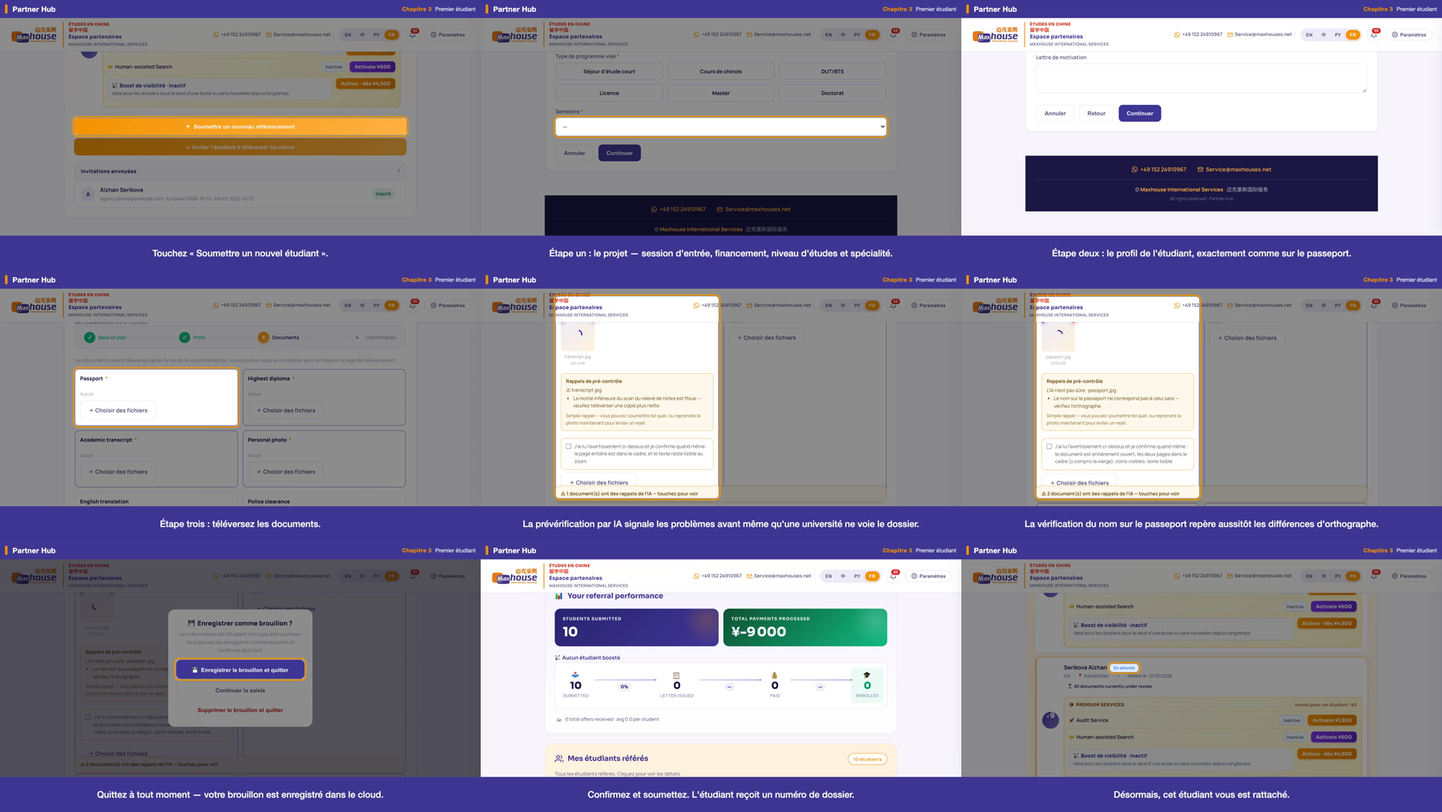
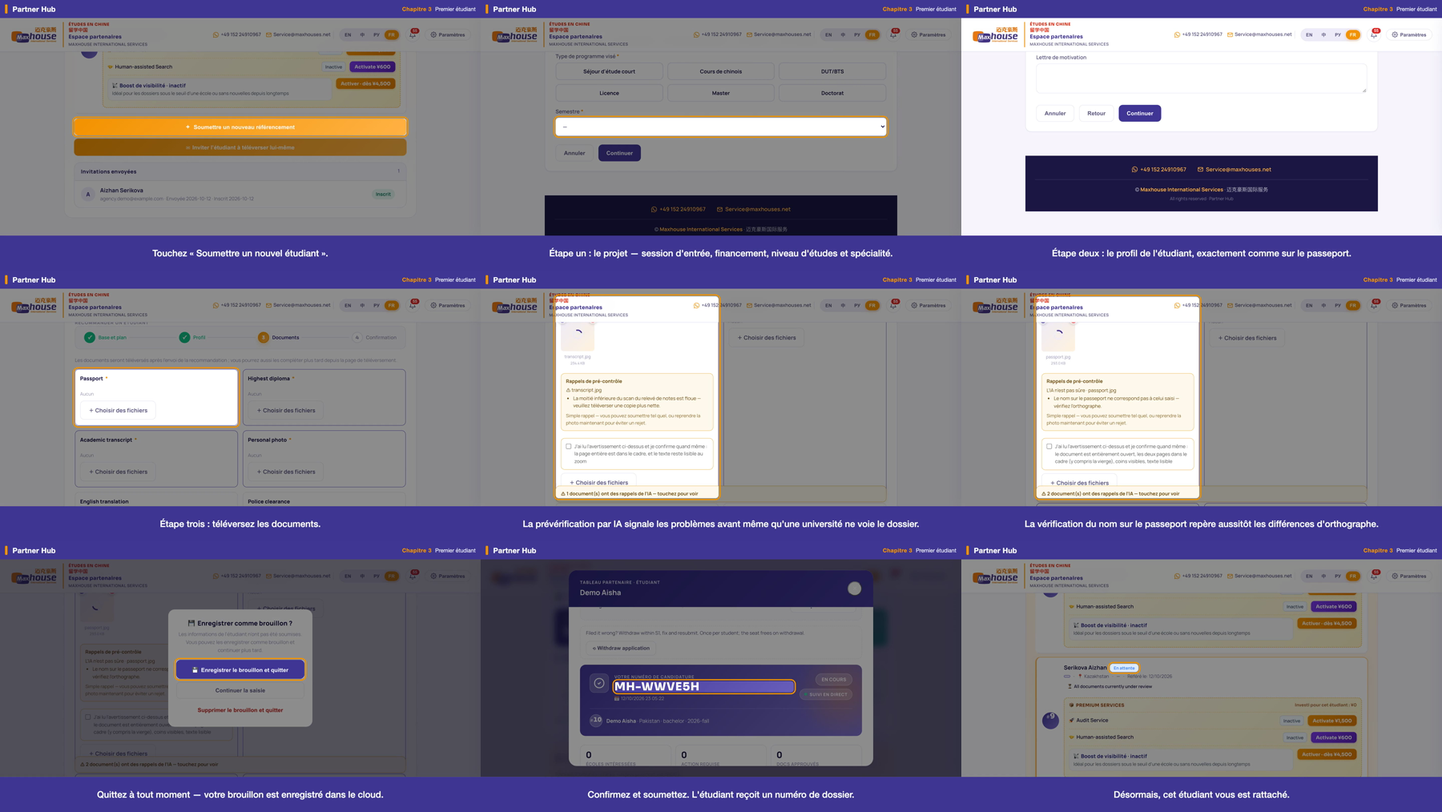
JOB-GP1 trip30: ch3 工作台章定版重录(review1 §三.8+§四+§一)——四语横竖联络表(帧取字幕中点)+4 REVIEW §十一对账+决定账+PROGRESS。rec.mjs preOff 修 3-1/3-8 节奏,3-9 ¥0 无负数,verify 17/17

Changed region(s): [[0.3111, 0.6726, 0.6844, 0.9783], [0.0622, 0.1223, 0.28, 0.1834], [0.9022, 0.8866, 0.9333, 0.9477]]

diff --git a/JOB-GP1-03-PROGRESS.md b/JOB-GP1-03-PROGRESS.md
@@ -1,3 +1,20 @@
+最后一趟：2026-10-12 第30趟 返工：**做了**＝ch3 工作台章（state 章）v185 底座四语横竖定版重录，一并落 review1 §三.8（3-1/3-8 节奏）+§四（草稿残留复核）+§一（工作台 v185）。**§三.8 节奏＝录制层实现「后期剪掉等待的那几秒」**：rec.mjs 加 `preOff` 开关（把导航/加载/真提交放镜外 offCamera 跑、不计入字幕窗口帧，等结果落定才开录）。3-1 旧病＝点完按钮后镜尾 openWizard 切走、高亮环落向导空白处→删 3-1 openWizard、移到 3-2 offCamera pre（3-1 全窗口框按钮·亲验尾帧仍框按钮；3-2 开录即向导 step1 高亮 Semester）。3-8 旧病「app_no 落段尾」（trip12 记）→真 submit+等 app_no 全放 offCamera，开录 app_no 已在画面（亲验首帧 t0 即显 MH-xxxxxx）。**§四**＝每变体前后跑 st-ch3-cleanup 还原 pt-01 基线草稿（Ayesha Malik/step2）+真 submit 后即 st-ch3-mark-test 标 is_test；8 变体=8 次真 submit（cleanup-before-each 保配额恒 9→10 成功），verify #17 开工+收工 PASS。**§一**＝3-9 卡「Invested ¥0」无负数（缺陷1 销账）。8 片全 res OK+audio yes+no @gmail+9镜×8 hl 全 resolve。时长 land/port：EN60.23/60.25·ZH70.52/70.46·RU70.69/70.55·FR69.59/69.51s。亲验 en-land(3-1尾/3-2/3-8/3-9)+ru-land(3-5/3-8/3-9)原始帧：§三.8 三镜达标、¥0 无负数、AI 预检琥珀条四语本地化(产品渲染)、演示生 Demo Aisha 无真 PII、护照 DE1234567 样号、邮箱掩码、无 beta、页头平台 WhatsApp/Email 不遮。ch3 开工+收工 verify **17/17 PASS 0 FAIL**，baseline 守住（scoped 复位，无全量 rebuild）。v1 成片在 _v1/ 留底、dist 覆盖 v2。**全片 bookend/film/trailer 本趟不重拼**（待全部工作台章完后统一拼）。主仓库点名提交 JOB-GP1 不推；四语 ch3 联络表(land+port)+4 REVIEW+决定账+PROGRESS 推 mh-jobs。**下趟**＝下一含工作台章定版重录（ch7 7-4/ch8 横幅/ch5 5-1·5-4 两态/ch10/OP-3·4·5 快剪），一趟一章；全部完后四语过十一项重审+重拼全片→写 SUMMARY-GP1。**GP-1 未收官，勿据旧『收官』停工。**
+
+---
+# 第30趟详记：
+## 第 30 趟（2026-10-12 Mac mini 无人值守）· ch3 工作台章定版重录 v185（review1 §三.8 + §四 + §一）
+- **接手核对**：git status + 读齐 PROGRESS/loop-tail/RULING-b-review1/-c-rework/-d/-e/DECISIONS/storyboard/QUEUE/CHOREOGRAPHY。trip29 ch1 已定版，下趟＝下一含工作台章（ch3）。开工即改首行「返工进行中」，开工 verify **17/17 PASS**。
+- **选题**：按 trip29「下趟」与 review1 §八 挑 ch3（state 章，含 §三.8 节奏 3-1/3-8 + §四 草稿残留 + §一 工作台 v185 背景）。review1 未标 ch3 任何字幕缺陷→字幕/配音一字不改，纯节奏/底座/残留返工。
+- **§三.8 做法（rec.mjs +preOff，见 D-30-1）**：先录 en-land 测量——timeline 实证 3-1 旧 openWizard 致尾帧高亮环落向导空白（亲验），3-8 preOff 后 app_no 窗口 t0 即在画面。据实改 3-1（去 openWizard）/3-2（移入 offCamera pre）/3-8（preOff）后重录 en-land 复验达标，再批量录其余 7 变体。
+- **录制闭环**：每变体 st-ch3-cleanup（清+还原草稿）→ 真 submit 录 → st-ch3-mark-test（标 is_test）；全 8 变体后最终 cleanup。cleanup-before-each 保每次配额 9→10 submit 成功出新 app_no。
+- **自验**：8 片 res/audio/no-@gmail/hl 全过；亲验 en-land+ru-land 关键原始帧（§三.8 达标/¥0 无负数/AI 琥珀四语/demo 无真 PII/无 beta/页头不遮）；§十一对账四语写入 REVIEW-*-shots.md。
+- **DB**：ch3 state 章，开工+收工 verify **17/17 PASS 0 FAIL**（含往返+§四#17），零残留。
+- **踩坑**：node 从仓库根跑 require 相对路径失败（cwd 复位）——改 cd rec 目录或绝对路径。批量录用带引号位置参数 `run(){...--lang "$1" --orient "$2"}`（避 LEDGER-3 $combo 分词）。
+- **改了**（主仓库，点名 JOB-GP1，不推）：rec/rec.mjs、rec/shots-v1.json、REVIEW-{en,zh,ru,fr}-shots.md、DECISIONS.md。成片/voice 不入 git；v1 在 _v1/、dist 覆盖 v2；全片不重拼。四语 ch3 联络表+4 REVIEW+决定账+PROGRESS 推 mh-jobs。
+- **下趟**：ch7/ch8/ch5/ch10/OP-3·4·5，一趟一章；全部完后十一项重审+重拼全片→写 SUMMARY-GP1。GP-1 未收官。
+
+---
+# 上一趟（第29趟）首行存档：
 最后一趟：2026-10-12 23:20 第29趟 返工：**做了**＝接 trip28（ch2 定版 v185 已出），本趟做 ch1 工作台章定版重录（review1 §一）。ch1 读-only（1~7 镜注册/入驻 UI 产品自身渲染、1-8 已登录 hub），review1 未标 ch1 任何字幕缺陷→字幕一字不改，纯 v185 底座整章四语横竖定版重录。病灶＝1-8 背景 hero，v184 缓存帧显 `TOTAL PAYMENTS PROCESSED ¥-9,000`（负数，缺陷1；亲看 v184 ch1-contact-land-en 实证）。v185 底座（含 trip28 offCamera 等待）重录后 1-8 自动显 **¥0**。四语 land 1-8 原始帧逐张亲验：四语全 ¥0（负数销账）、STUDENTS SUBMITTED 9、APPROVED/одобрено/approuvé/已通过 徽章橙框、无负数、无 beta、注册号画面 no @gmail+邀请码打码+SPECIMEN+无真 PII、页头平台 WhatsApp/Email 不遮。8 片全 res OK+audio yes+no @gmail+8 镜 hl 全 resolve。§十一对账四语写入 REVIEW-*-shots.md。时长 EN49.43·ZH49.45·RU51.22·FR49.62s(land)。ch1 全程只读，开工+收工 verify 17/17 PASS 0 FAIL。踩坑：批量录 `$combo` 未分词污染 TAG（LEDGER-3 复犯），TaskStop 杀后台改带引号位置参数函数重录。v1 成片在 _v1/ 留底，覆盖 dist 为 v2。**全片 bookend/film/trailer 本趟不重拼**（待全部工作台章完后统一拼）。主仓库点名提交 JOB-GP1 不推；四语 ch1 联络表(land+port)+4 REVIEW+决定账+PROGRESS 推 mh-jobs。**下趟**＝下一含工作台章定版重录（ch3 3-1·3-8 节奏+§四草稿残留/ch7 7-4/ch8 横幅/ch5 5-1·5-4 两态/ch10/OP-3·4·5 快剪），一趟一章；全部完后四语过十一项重审+重拼全片→写 SUMMARY-GP1。**GP-1 未收官，勿据旧『收官』停工。**
 
 ---

diff --git a/JOB-GP1-REVIEW-en-shots.md b/JOB-GP1-REVIEW-en-shots.md
@@ -85,3 +85,27 @@
 - 时长：land 49.43s / port 49.44s（8 镜）。8 片（四语横竖）全 res OK + audio yes。全片 DOM 扫描 **no @gmail**。
 - 逐张亲眼复验（EN land 联络表 + 1-8 原始帧 46s）：1-8 hero `TOTAL PAYMENTS PROCESSED ¥0`（负数已消失，review1 §一 销账）、`STUDENTS SUBMITTED 9`、APPROVED 徽章橙框；无负数、无 beta/内测/test 控件；注册演示号画面 no @gmail、邀请码打码、SPECIMEN 样件、无真护照号/电话；页头平台 WhatsApp/Email 不遮（D-14-3/D-15-1）。
 - 记账：1-8 同帧有「Quota raise pending: 10 → 30」横幅＝基线真实待审提额请求（verify #13），在 ch1 叙事中属真实背景态、不矛盾（该横幅与 ch8 叙事的矛盾由 §三.7 ch8 返工时 scoped 撤除后再录处理，与 ch1 无关）。
+
+## ch3 §三.8（节奏 3-1/3-8）+ §四（草稿残留）+ §一（工作台 v185，返工第30趟 2026-10-12 · 定版重录）
+前置：ch3 是 state 章（3-8 真 submit→真 app_no，耗配额 9→10、建 guide-pt-ch3 生）。本趟在 v185 底座对 ch3 整章四语横竖定版重录，处理 review1 三处：
+- **§三.8 节奏（录制层实现 review1「后期剪掉等待的那几秒」）**：给 rec.mjs 加 `preOff` 开关——把「导航/加载/真提交」放镜外（offCamera）跑，不计入字幕窗口帧，等结果落定后才开录，保证字幕说的东西在窗口里占 ~100%。
+  - **3-1（旧病：点完按钮后镜尾 openWizard 切走，高亮环落在向导空白处）**：去掉 3-1 的 `special:openWizard`，把「开向导」移到 3-2 的 offCamera `pre`。→ 3-1 全窗口停在高亮的「Submit New Student Referral」按钮（亲验 3-1 尾帧 t≈5s 仍框按钮，无空白环）；3-2 开录即向导 step1、高亮 Semester（亲验 3-2 首帧已是向导、中帧框 Semester 选择框）。
+  - **3-8（旧病「app_no 落在段尾」，trip12 已记）**：3-8 的真 submit + 等 app_no 全放 offCamera，开录时 app_no 已渲染。亲验 3-8 首帧（窗口 t0）即显 `MH-xxxxxx`（en-land 本趟 MH-EQ3SS3 / ru-land MH-G35SC4，每次真 submit 新码，录后 scoped 删）、中帧高亮环框住 app_no。app_no 全窗口在画面。
+- **§四（草稿残留）**：本趟每录一变体前后各跑 `st-ch3-cleanup.sql`（删 guide-pt-ch3 + 把 pt-01 草稿还原成基线 Ayesha Malik/step2/_demo=pt-01）；真 submit 后立即 `st-ch3-mark-test.sql` 标 is_test（安全网）。收工 verify **#17 PASS**（pt-01 draft==基线，无 ch3 向导覆盖残留）。
+- **§一（工作台 v185）**：3-9 列表背景＝v185 真值，推荐生卡「Invested on this student: ¥0」（无负数，缺陷1 销账）。
+
+| 镜 | 字幕原文（未改） | 高亮区 DOM 实际文字（从 v185 真帧 DOM 读） | 同一件事？ |
+|----|----------|---------------------|-----------|
+| 3-1 | Tap "Submit New Student Referral". | `.partner-add-student-btn`「+ Submit New Student Referral」（工作台底，全窗口高亮） | 是（§三.8 修后全程框按钮） |
+| 3-2 | Step one: the plan — intake term, funding, degree level and major. | 向导 step1：Intended program type 六卡（Short-term/Chinese Language/Associate/Bachelor's/Master's/Doctorate）+ 高亮 `#wzSemStart`「Semester *」选择框 | 是 |
+| 3-3 | Step two: the student's profile, exactly as in the passport. | 向导 step2 档案：高亮「Date of birth」行（同屏 Passport no. 等；演示 Demo Aisha / 护照 DE1234567 样号） | 是 |
+| 3-4 | Step three: upload the documents. | 向导 step3 `.mat-grid`：高亮 `#wz_card_passport` 上传槽（23 槽矩阵） | 是 |
+| 3-5 | The AI pre-check flags problems before a university ever sees the file. | `#wz_card_transcript` 内产品自身琥珀条「Pre-check reminders · transcript.jpg · The transcript scan is blurry in the lower half — please upload a clearer copy.」+ sticky「⚠ Documents with AI notes: 1」（RULING §1.2 产品渲染，四语本地化） | 是 |
+| 3-6 | The passport name check catches spelling differences right away. | `#wz_card_passport` 内护照姓名核对琥珀条（名字不一致提醒「does not match」） | 是 |
+| 3-7 | Leave any time — your draft is saved in the cloud. | `#pwzExitModal` 退出三选一弹窗，高亮「💾 Save draft & exit」 | 是 |
+| 3-8 | Confirm and submit. The student gets an application number. | `.student-app-id-num`「YOUR APPLICATION ID · MH-EQ3SS3」（Demo Aisha · #10 · Pakistan · bachelor · 2026-fall · DOCUMENTS UNDER REVIEW；§三.8 修后全窗口在画面） | 是 |
+| 3-9 | From now on this student is bound to you. | `.partner-student-status-pending`「Submitted · awaiting platform review」（推荐生卡，渲染全/有脸的基线生卡；同卡「Invested on this student: ¥0」无负数） | 是 |
+
+- 时长：land 60.23s / port 60.25s（9 镜）。8 片（四语横竖）全 res OK + audio yes。全片 DOM 扫描 **no @gmail**；8 录屏 9 镜 hl 全 resolve、零 MISS。
+- 逐张亲眼复验（EN land 联络表 + 3-1尾/3-2首中/3-8首中/3-9中 原始帧）：3-1 全程框按钮无空白环、3-2 开录即向导、3-8 app_no 全窗口在画面（§三.8 达标）；3-9「Invested ¥0」无负数（§一.3/缺陷1 销账）；注册演示生 Demo Aisha 无真 PII、护照 DE1234567 样号、邮箱掩码 agency.demo@example.com；无 beta/内测/test 控件；页头平台 WhatsApp/Email 不遮（D-14-3/D-15-1）。
+- 记账：真 submit（submit_referral）仅 insert students、不发邮件/站内通知（trip20 实证）；每变体真码不同（录后 scoped 删）；收工 verify 17/17 PASS、draft 回基线。

diff --git a/JOB-GP1-decisions.md b/JOB-GP1-decisions.md
@@ -547,3 +547,17 @@
 - **改了**（主仓库，点名提交 JOB-GP1，**不推**）：rec/out/*（gitignore，不入库）、REVIEW-{en,zh,ru,fr}-shots.md、DECISIONS.md。成片/voice 不入 git；四语 ch1 联络表（land+port）+ 四 REVIEW + 决定账 + PROGRESS 推 mh-jobs。
 - **非四种停下情形**：ch1 全在只读 + 成片工装范围，记账继续。
 - **下趟**：接做下一含工作台章定版重录——ch3（3-1/3-8 含 §三.8 节奏，需真 submit 置态 + st-ch3-cleanup 复位 + §四草稿残留处理）或 ch7（7-4 §三.5，需 pt-07/08/09 置态）或 ch8（§三.7 横幅，需 scoped 撤提额请求）或 ch5 5-1/5-4 两态定版 或 ch10（读-only）或 OP-3/4/5 开场快剪（素材 3-8/7-0/7-1 现已不阻塞）。一趟一章；全部完后四语过十一项重审 + 重拼全片 → 写 SUMMARY-GP1。GP-1 未收官。
+
+## D-30-1（返工第30趟 2026-10-12）· ch3 工作台章定版重录（review1 §三.8 节奏 + §四 草稿 + §一 v185）
+- **范围**：ch3（state 章，3-8 真 submit→真 app_no）在 v185 底座四语横竖定版重录，一并落 review1 §三.8（3-1/3-8 节奏）、§四（草稿残留复核）、§一（工作台 v185）。字幕/配音一字未改（review1 未标 ch3 任何字幕缺陷）。
+- **§三.8 节奏 = 录制层实现「后期剪掉等待的那几秒」**（rec.mjs，jobs 工装非产品码，承 trip28 offCamera 先例）：
+  - 新增 `preOff` 开关：`follow()` 里把 `runPre + waitFor`（即导航/加载/真提交 + 等结果出现）放 `offCamera` 里跑，不计入字幕窗口帧；等结果落定后才开录。非 preOff 镜行为一字不变。
+  - **3-1 旧病**：`special:openWizard` 在 dwell 后切向导→镜尾高亮环落在向导空白处（亲验 v1 风格尾帧：环框在 Continue 钮下方空白）。**改**：删 3-1 的 openWizard，把开向导移到 3-2 的 `pre`（`openAddStudentModal`）+ `preOff:true` + `waitFor:#wzSemStart`；3-1 `expect` 收为 `.partner-add-student-btn`。→ 3-1 全窗口框按钮（亲验尾帧 t≈5s 仍框按钮）、3-2 开录即向导 step1 高亮 Semester。
+  - **3-8 旧病「app_no 落在段尾」（trip12 记）**：3-8 加 `preOff:true`，真 submit + 等 `.student-app-id-num` 全放 offCamera，开录时 app_no 已渲染（亲验首帧 t0 即显 app_no）。
+- **§四 草稿残留**：每变体前后各跑 `st-ch3-cleanup.sql`（删 guide-pt-ch3 + 还原 pt-01 基线草稿 Ayesha Malik/step2/_demo=pt-01）；真 submit 后立即 `st-ch3-mark-test.sql` 标 is_test（安全网）。8 变体＝8 次真 submit（每次新 app_no，cleanup-before-each 保证配额恒 9→10 submit 成功），收工 1 次最终 cleanup。verify #17（pt-01 draft==基线）开工+收工 PASS。
+- **§一 工作台**：3-9 列表背景＝v185 真值，推荐生卡「Invested on this student: ¥0」无负数（缺陷1 销账）。
+- **自验**：8 片全 res OK + audio yes，no @gmail，9 镜×8 hl 全 resolve 零 MISS。时长 land/port：EN 60.23/60.25、ZH 70.52/70.46、RU 70.69/70.55、FR 69.59/69.51s。亲验 en-land（3-1尾/3-2首中/3-8首中/3-9中）+ ru-land（3-5/3-8/3-9）原始帧：§三.8 三镜达标、¥0 无负数、AI 预检琥珀条四语本地化（产品渲染 RULING §1.2）、演示生 Demo Aisha 无真 PII、护照 DE1234567 样号、邮箱掩码、无 beta、页头平台 WhatsApp/Email 不遮（D-14-3/D-15-1）。
+- **DB**：开工+收工 verify **17/17 PASS 0 FAIL**，baseline 全程守住（scoped 复位，无全量 rebuild，faces 缺口 D-12-2）。
+- **改了**（主仓库，点名 JOB-GP1，不推）：rec/rec.mjs（+preOff）、rec/shots-v1.json（3-1 去 openWizard/收 expect、3-2 +preOff/pre/waitFor、3-8 +preOff）、REVIEW-{en,zh,ru,fr}-shots.md、DECISIONS.md。成片/voice 不入 git；ch3 v1 早在 _v1/ 留底，dist 覆盖 v2。四语 ch3 联络表+4 REVIEW+决定账+PROGRESS 推 mh-jobs。
+- **全片不重拼**：bookend/film/trailer 待全部工作台章定版重录完后统一拼。
+- **下趟**：下一含工作台章定版重录——ch7（7-4 §三.5：字幕「Enrolled. Done.」vs 卡徽章，需第一节修后产品能否真显已入学，否则字幕最小改）/ ch8（§三.7 横幅：8-1 已显「Quota raise pending 10→30」与 8-2/8-3 叙事矛盾，录前 scoped 撤待审提额、录后复位 verify#13）/ ch5（5-1 工作台 + 5-4 两态，需 st-pt03-reupload 两态分录）/ ch10 / OP-3·4·5 开场快剪（3-8/7-0/7-1 素材现已不阻塞）。一趟一章；全部完后四语十一项重审+重拼全片→写 SUMMARY-GP1。**GP-1 未收官。**

diff --git a/JOB-GP1-REVIEW-ru-shots.md b/JOB-GP1-REVIEW-ru-shots.md
@@ -54,3 +54,20 @@ D-18-4：RU 界面里产品动态串回退成英文（PREMIUM SERVICES / Audit S
 | 1-8 | После одобрения ваш партнёрский кабинет открыт. | `.hero`（Demo Agency · Партнёр · одобрено，橙框）；同帧 hero「STUDENTS SUBMITTED 9」「TOTAL PAYMENTS PROCESSED ¥0」（**非 v184 的 ¥-9,000**） | 是 |
 
 - 时长：land 51.22s / port 51.25s（8 镜）。全片 no @gmail。亲眼复验（RU land 1-8 原始帧）：1-8 hero ¥0（负数销账）、STUDENTS SUBMITTED 9、одобрено 徽章橙框；无负数、无 beta 控件；俄文 UI（部分界面串英文回退 D-18-4：STUDENTS SUBMITTED / Quota raise pending 等）；页头平台 WhatsApp/Email 不遮（D-14-3/D-15-1）。
+
+## ch3 §三.8（节奏 3-1/3-8）+ §四（草稿残留）+ §一（工作台 v185，返工第30趟 2026-10-12 · 定版重录）
+前置同 EN 段。RU 字幕来自 captions-v1.json（trip18 已随 RU 录制核验）。D-18-4：工作台/向导部分动态串（如 Audit Service / Human-assisted Search / All documents currently under review / Withdraw application / PREMIUM SERVICES）在 RU 回退英文＝真实产品（LL 动态串无 ru 词典），照录、记入 SUMMARY 产品问题。§三.8/§四/§一 处理同 EN。
+
+| 镜 | RU 字幕 | 高亮区 DOM 实际（v185 真帧，俄/英混排=真产品 D-18-4） | 同一件事？ |
+|----|----------|---------------------|-----------|
+| 3-1 | Нажмите «Отправить нового студента». | `.partner-add-student-btn`（提交按钮，全窗口高亮） | 是 |
+| 3-2 | Шаг первый: план — семестр, финансирование, уровень, специальность. | 向导 step1 + 高亮 `#wzSemStart`「Semester」 | 是 |
+| 3-3 | Шаг второй: профиль студента, точно как в паспорте. | step2 高亮 DOB 行（Demo Aisha / DE1234567） | 是 |
+| 3-4 | Шаг третий: загрузите документы. | step3 `.mat-grid` 护照槽 | 是 |
+| 3-5 | ИИ-предпроверка выявляет проблемы ещё до того, как вуз увидит документ. | 琥珀「Напоминания предварительной проверки · Нижняя половина скана аттестата размыта…」+ sticky「⚠ Документов с замечаниями AI: 1」（产品渲染，RU 本地化·亲验） | 是 |
+| 3-6 | Проверка имени по паспорту сразу замечает расхождения. | 护照卡姓名核对琥珀条 | 是 |
+| 3-7 | Выходите в любой момент — черновик сохраняется в облаке. | 退出弹窗「Save draft & exit」(EN 回退 D-18-4) | 是 |
+| 3-8 | Подтвердите и отправьте. Студент получает номер заявки. | `.student-app-id-num`「ВАШ НОМЕР ЗАЯВКИ · MH-G35SC4」（Demo Aisha·#10·ПРОВЕРКА；§三.8 修后全窗口在画面·亲验） | 是 |
+| 3-9 | С этого момента студент закреплён за вами. | `.partner-student-status-pending`「Ожидает」（基线生卡；同卡「Вложено в студента: ¥0」无负数·亲验） | 是 |
+
+- 时长：land 70.69s / port 70.55s（9 镜）。横竖 2 片 res OK + audio yes，no @gmail，9 镜 hl 全 resolve。亲验（ru-land 3-5/3-8/3-9 原始帧）：3-8 app_no 全窗口、3-9 ¥0 无负数、3-5 琥珀 RU 条、演示生无真 PII、无 beta、页头不遮。

diff --git a/JOB-GP1-REVIEW-zh-shots.md b/JOB-GP1-REVIEW-zh-shots.md
@@ -63,3 +63,20 @@
 | 1-8 | 审核通过，工作台就开通了。 | `.hero`（Demo Agency · 已通过 徽章橙框）；同帧 hero 统计「学生已提交 9」「TOTAL PAYMENTS PROCESSED ¥0」（**非 v184 的 ¥-9,000**） | 是 |
 
 - 时长：land 49.45s / port 49.48s（8 镜）。中文字幕无乱码方块。全片 no @gmail。亲眼复验（ZH land 联络表 + 1-8 原始帧）：1-8 hero ¥0（负数销账）、学生已提交 9、已通过徽章橙框；无负数、无 beta 控件；注册号画面 no @gmail、邀请码打码、SPECIMEN 样件；页头平台 WhatsApp/Email 不遮（D-14-3/D-15-1）。1-8 同帧「10→30 提额待审」横幅＝基线真实背景态（verify #13），与 ch1 叙事不矛盾（ch8 叙事矛盾由 §三.7 另处理）。
+
+## ch3 §三.8（节奏 3-1/3-8）+ §四（草稿残留）+ §一（工作台 v185，返工第30趟 2026-10-12 · 定版重录）
+前置同 EN 段：ch3 state 章 v185 底座四语横竖定版重录。§三.8 节奏＝rec.mjs 加 `preOff`（导航/加载/真提交放镜外跑，字幕窗口里字幕说的东西占 ~100%）：3-1 去 openWizard、移到 3-2 offCamera pre → 3-1 全窗口框按钮、3-2 开录即向导；3-8 真 submit+等 app_no 放 offCamera → 开录 app_no 已在画面。§四＝每变体前后跑 st-ch3-cleanup 还原 pt-01 基线草稿 + 真 submit 后即 mark-test，收工 verify #17 PASS。§一＝3-9 卡「Invested on this student: ¥0」无负数。中文 UI 字幕四语各自对照。
+
+| 镜 | 中文字幕（未改） | 高亮区 DOM 实际文字（v185 真帧） | 同一件事？ |
+|----|----------|---------------------|-----------|
+| 3-1 | 点「提交新学生推荐」。 | `.partner-add-student-btn`「提交新学生推荐」（全窗口高亮） | 是 |
+| 3-2 | 第一步，申请计划：开学季、资助方式、学历层次和专业。 | 向导 step1 层次六卡 + 高亮「学期/Semester」选择框 `#wzSemStart` | 是 |
+| 3-3 | 第二步，学生档案，按护照填写。 | 向导 step2：高亮「出生日期」行（演示 Demo Aisha，护照 DE1234567 样号） | 是 |
+| 3-4 | 第三步，上传材料。 | 向导 step3 `.mat-grid` 高亮护照上传槽 | 是 |
+| 3-5 | AI 预检在学校看到之前就把问题指出来。 | 琥珀「预检提醒」条：成绩单下半部分模糊——请上传更清晰版本 + sticky「⚠ AI 标注 1 份」（产品渲染） | 是 |
+| 3-6 | 护照姓名核对当场发现拼写不一致。 | 护照卡姓名核对琥珀条（不一致提醒） | 是 |
+| 3-7 | 随时退出，草稿存在云端。 | 退出弹窗高亮「存草稿并退出」 | 是 |
+| 3-8 | 确认提交，学生拿到申请编号。 | `.student-app-id-num`「你的申请编号 · MH-xxxxxx」（Demo Aisha·#10；§三.8 修后全窗口在画面） | 是 |
+| 3-9 | 从现在起，这名学生与你绑定。 | `.partner-student-status-pending`「已提交·等待平台审核」（基线生卡；同卡「Invested ¥0」无负数） | 是 |
+
+- 时长：land 70.52s / port 70.46s（9 镜）。横竖 2 片 res OK + audio yes，no @gmail，9 镜 hl 全 resolve。亲验同 EN：3-1 全程框按钮、3-8 app_no 全窗口、3-9 ¥0 无负数、演示生无真 PII、无 beta、页头平台 WhatsApp/Email 不遮。

diff --git a/JOB-GP1-REVIEW-fr-shots.md b/JOB-GP1-REVIEW-fr-shots.md
@@ -54,3 +54,20 @@ D-18-4：FR 界面里产品动态串回退成英文（PREMIUM SERVICES / Audit S
 | 1-8 | Une fois approuvé, votre espace partenaire est ouvert. | `.hero`（Demo Agency · Partenaire · approuvé，橙框）；同帧 hero「STUDENTS SUBMITTED 9」「TOTAL PAYMENTS PROCESSED ¥0」（**非 v184 的 ¥-9,000**） | 是 |
 
 - 时长：land 49.62s / port 49.68s（8 镜）。全片 no @gmail。亲眼复验（FR land 1-8 原始帧）：1-8 hero ¥0（负数销账）、STUDENTS SUBMITTED 9、approuvé 徽章橙框；无负数、无 beta 控件；法文 UI（Espace partenaires / Aucun étudiant boosté，部分串英文回退 D-18-4）；页头平台 WhatsApp/Email 不遮（D-14-3/D-15-1）。
+
+## ch3 §三.8（节奏 3-1/3-8）+ §四（草稿残留）+ §一（工作台 v185，返工第30趟 2026-10-12 · 定版重录）
+前置同 EN 段。FR 字幕来自 captions-v1.json（trip19 已随 FR 录制核验）。D-18-4：工作台/向导动态串在 FR 同样回退英文＝真实产品，照录、记入 SUMMARY。§三.8/§四/§一 处理同 EN。
+
+| 镜 | FR 字幕 | 高亮区 DOM 实际（v185 真帧，法/英混排=真产品 D-18-4） | 同一件事？ |
+|----|----------|---------------------|-----------|
+| 3-1 | Touchez « Soumettre un nouvel étudiant ». | `.partner-add-student-btn`（全窗口高亮） | 是 |
+| 3-2 | Étape un : le projet — session, financement, niveau, spécialité. | 向导 step1 + 高亮 `#wzSemStart` | 是 |
+| 3-3 | Étape deux : le profil de l'étudiant, exactement comme sur le passeport. | step2 高亮 DOB 行（Demo Aisha / DE1234567） | 是 |
+| 3-4 | Étape trois : téléversez les documents. | step3 `.mat-grid` 护照槽 | 是 |
+| 3-5 | La prévérification par IA signale les problèmes avant même qu'une université ne voie le dossier. | 琥珀预检条（FR 本地化·moitié inférieure floue）+ sticky 1 doc flagged（产品渲染） | 是 |
+| 3-6 | La vérification du nom sur le passeport repère aussitôt les différences d'orthographe. | 护照卡姓名核对琥珀条 | 是 |
+| 3-7 | Quittez à tout moment — votre brouillon est enregistré dans le cloud. | 退出弹窗存草稿钮 | 是 |
+| 3-8 | Confirmez et soumettez. L'étudiant reçoit un numéro de dossier. | `.student-app-id-num`「… · MH-xxxxxx」（Demo Aisha·#10；§三.8 修后全窗口在画面） | 是 |
+| 3-9 | Désormais, cet étudiant vous est rattaché. | `.partner-student-status-pending`（pending 标签，基线生卡；同卡 Invested ¥0 无负数） | 是 |
+
+- 时长：land 69.59s / port 69.51s（9 镜）。横竖 2 片 res OK + audio yes，no @gmail，9 镜 hl 全 resolve。亲验同 EN/RU：3-8 app_no 全窗口、3-9 ¥0 无负数、演示生无真 PII、无 beta、页头不遮。
